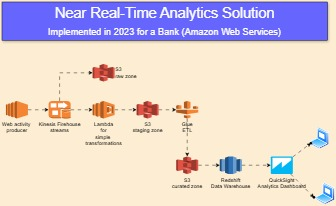
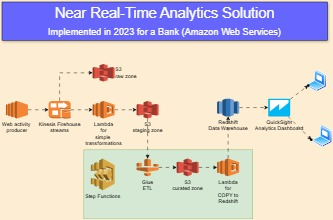
updated image for near real time workload

diff --git a/html/Bank_NearRealTimeAnalytics.drawio.html b/html/Bank_NearRealTimeAnalytics.drawio.html
@@ -5,7 +5,7 @@
 <title>Bank_NearRealTimeAnalytics</title>
 <meta charset="utf-8"/>
 </head>
-<body><div class="mxgraph" style="max-width:100%;border:1px solid transparent;" data-mxgraph="{&quot;highlight&quot;:&quot;#0000ff&quot;,&quot;nav&quot;:true,&quot;resize&quot;:true,&quot;dark-mode&quot;:&quot;auto&quot;,&quot;toolbar&quot;:&quot;zoom layers tags lightbox&quot;,&quot;edit&quot;:&quot;_blank&quot;,&quot;xml&quot;:&quot;&lt;mxfile host=\&quot;app.diagrams.net\&quot; agent=\&quot;Mozilla/5.0 (Windows NT 10.0; Win64; x64) AppleWebKit/537.36 (KHTML, like Gecko) Chrome/134.0.0.0 Safari/537.36\&quot; version=\&quot;26.2.8\&quot;&gt;\n  &lt;diagram name=\&quot;Page-1\&quot; id=\&quot;qbJQRqN9SArV1at16m0G\&quot;&gt;\n    &lt;mxGraphModel dx=\&quot;1044\&quot; dy=\&quot;570\&quot; grid=\&quot;0\&quot; gridSize=\&quot;10\&quot; guides=\&quot;1\&quot; tooltips=\&quot;1\&quot; connect=\&quot;1\&quot; arrows=\&quot;1\&quot; fold=\&quot;1\&quot; page=\&quot;1\&quot; pageScale=\&quot;1\&quot; pageWidth=\&quot;850\&quot; pageHeight=\&quot;1100\&quot; background=\&quot;light-dark(#fdeed3, #121212)\&quot; math=\&quot;0\&quot; shadow=\&quot;0\&quot;&gt;\n      &lt;root&gt;\n        &lt;mxCell id=\&quot;0\&quot; /&gt;\n        &lt;mxCell id=\&quot;1\&quot; parent=\&quot;0\&quot; /&gt;\n        &lt;mxCell id=\&quot;rjuP4YgaECZgG8GJWJ20-10\&quot; value=\&quot;\&quot; style=\&quot;edgeStyle=orthogonalEdgeStyle;rounded=0;orthogonalLoop=1;jettySize=auto;html=1;flowAnimation=1;\&quot; parent=\&quot;1\&quot; source=\&quot;rjuP4YgaECZgG8GJWJ20-1\&quot; target=\&quot;rjuP4YgaECZgG8GJWJ20-2\&quot; edge=\&quot;1\&quot;&gt;\n          &lt;mxGeometry relative=\&quot;1\&quot; as=\&quot;geometry\&quot; /&gt;\n        &lt;/mxCell&gt;\n        &lt;mxCell id=\&quot;rjuP4YgaECZgG8GJWJ20-1\&quot; value=\&quot;Web activity&amp;amp;nbsp;&amp;lt;div&amp;gt;producer&amp;lt;/div&amp;gt;\&quot; style=\&quot;outlineConnect=0;dashed=0;verticalLabelPosition=bottom;verticalAlign=top;align=center;html=1;shape=mxgraph.aws3.ec2;fillColor=#F58534;gradientColor=none;\&quot; parent=\&quot;1\&quot; vertex=\&quot;1\&quot;&gt;\n          &lt;mxGeometry x=\&quot;63\&quot; y=\&quot;244\&quot; width=\&quot;50\&quot; height=\&quot;40\&quot; as=\&quot;geometry\&quot; /&gt;\n        &lt;/mxCell&gt;\n        &lt;mxCell id=\&quot;rjuP4YgaECZgG8GJWJ20-11\&quot; value=\&quot;\&quot; style=\&quot;edgeStyle=orthogonalEdgeStyle;rounded=0;orthogonalLoop=1;jettySize=auto;html=1;flowAnimation=1;\&quot; parent=\&quot;1\&quot; source=\&quot;rjuP4YgaECZgG8GJWJ20-2\&quot; target=\&quot;rjuP4YgaECZgG8GJWJ20-3\&quot; edge=\&quot;1\&quot;&gt;\n          &lt;mxGeometry relative=\&quot;1\&quot; as=\&quot;geometry\&quot; /&gt;\n        &lt;/mxCell&gt;\n        &lt;mxCell id=\&quot;rjuP4YgaECZgG8GJWJ20-2\&quot; value=\&quot;Kinesis Firehouse&amp;lt;div&amp;gt;streams&amp;lt;/div&amp;gt;\&quot; style=\&quot;outlineConnect=0;dashed=0;verticalLabelPosition=bottom;verticalAlign=top;align=center;html=1;shape=mxgraph.aws3.kinesis_firehose;fillColor=#F58534;gradientColor=none;\&quot; parent=\&quot;1\&quot; vertex=\&quot;1\&quot;&gt;\n          &lt;mxGeometry x=\&quot;160\&quot; y=\&quot;244\&quot; width=\&quot;50\&quot; height=\&quot;40\&quot; as=\&quot;geometry\&quot; /&gt;\n        &lt;/mxCell&gt;\n        &lt;mxCell id=\&quot;rjuP4YgaECZgG8GJWJ20-19\&quot; value=\&quot;\&quot; style=\&quot;edgeStyle=orthogonalEdgeStyle;rounded=0;orthogonalLoop=1;jettySize=auto;html=1;flowAnimation=1;\&quot; parent=\&quot;1\&quot; source=\&quot;rjuP4YgaECZgG8GJWJ20-3\&quot; target=\&quot;rjuP4YgaECZgG8GJWJ20-18\&quot; edge=\&quot;1\&quot;&gt;\n          &lt;mxGeometry relative=\&quot;1\&quot; as=\&quot;geometry\&quot; /&gt;\n        &lt;/mxCell&gt;\n        &lt;mxCell id=\&quot;rjuP4YgaECZgG8GJWJ20-22\&quot; value=\&quot;\&quot; style=\&quot;edgeStyle=orthogonalEdgeStyle;rounded=0;orthogonalLoop=1;jettySize=auto;html=1;exitX=0.5;exitY=0;exitDx=0;exitDy=0;exitPerimeter=0;flowAnimation=1;\&quot; parent=\&quot;1\&quot; source=\&quot;rjuP4YgaECZgG8GJWJ20-2\&quot; target=\&quot;rjuP4YgaECZgG8GJWJ20-4\&quot; edge=\&quot;1\&quot;&gt;\n          &lt;mxGeometry relative=\&quot;1\&quot; as=\&quot;geometry\&quot;&gt;\n            &lt;Array as=\&quot;points\&quot;&gt;\n              &lt;mxPoint x=\&quot;185\&quot; y=\&quot;180\&quot; /&gt;\n            &lt;/Array&gt;\n          &lt;/mxGeometry&gt;\n        &lt;/mxCell&gt;\n        &lt;mxCell id=\&quot;rjuP4YgaECZgG8GJWJ20-3\&quot; value=\&quot;Lambda&amp;lt;div&amp;gt;for&amp;lt;/div&amp;gt;&amp;lt;div&amp;gt;simple&amp;amp;nbsp;&amp;lt;/div&amp;gt;&amp;lt;div&amp;gt;transformations&amp;lt;/div&amp;gt;\&quot; style=\&quot;outlineConnect=0;dashed=0;verticalLabelPosition=bottom;verticalAlign=top;align=center;html=1;shape=mxgraph.aws3.lambda;fillColor=#F58534;gradientColor=none;\&quot; parent=\&quot;1\&quot; vertex=\&quot;1\&quot;&gt;\n          &lt;mxGeometry x=\&quot;260\&quot; y=\&quot;244\&quot; width=\&quot;50\&quot; height=\&quot;40\&quot; as=\&quot;geometry\&quot; /&gt;\n        &lt;/mxCell&gt;\n        &lt;mxCell id=\&quot;rjuP4YgaECZgG8GJWJ20-4\&quot; value=\&quot;S3&amp;lt;div&amp;gt;raw zone&amp;lt;/div&amp;gt;\&quot; style=\&quot;outlineConnect=0;dashed=0;verticalLabelPosition=middle;verticalAlign=middle;align=left;html=1;shape=mxgraph.aws3.s3;fillColor=#E05243;gradientColor=none;labelPosition=right;\&quot; parent=\&quot;1\&quot; vertex=\&quot;1\&quot;&gt;\n          &lt;mxGeometry x=\&quot;260\&quot; y=\&quot;160\&quot; width=\&quot;50\&quot; height=\&quot;40\&quot; as=\&quot;geometry\&quot; /&gt;\n        &lt;/mxCell&gt;\n        &lt;mxCell id=\&quot;rjuP4YgaECZgG8GJWJ20-14\&quot; value=\&quot;\&quot; style=\&quot;edgeStyle=orthogonalEdgeStyle;rounded=0;orthogonalLoop=1;jettySize=auto;html=1;flowAnimation=1;\&quot; parent=\&quot;1\&quot; source=\&quot;rjuP4YgaECZgG8GJWJ20-5\&quot; target=\&quot;rjuP4YgaECZgG8GJWJ20-6\&quot; edge=\&quot;1\&quot;&gt;\n          &lt;mxGeometry relative=\&quot;1\&quot; as=\&quot;geometry\&quot; /&gt;\n        &lt;/mxCell&gt;\n        &lt;mxCell id=\&quot;rjuP4YgaECZgG8GJWJ20-5\&quot; value=\&quot;Glue&amp;lt;div&amp;gt;ETL&amp;lt;/div&amp;gt;\&quot; style=\&quot;outlineConnect=0;dashed=0;verticalLabelPosition=bottom;verticalAlign=top;align=center;html=1;shape=mxgraph.aws3.glue;fillColor=#F58534;gradientColor=none;\&quot; parent=\&quot;1\&quot; vertex=\&quot;1\&quot;&gt;\n          &lt;mxGeometry x=\&quot;450\&quot; y=\&quot;244\&quot; width=\&quot;50\&quot; height=\&quot;40\&quot; as=\&quot;geometry\&quot; /&gt;\n        &lt;/mxCell&gt;\n        &lt;mxCell id=\&quot;rjuP4YgaECZgG8GJWJ20-15\&quot; value=\&quot;\&quot; style=\&quot;edgeStyle=orthogonalEdgeStyle;rounded=0;orthogonalLoop=1;jettySize=auto;html=1;flowAnimation=1;\&quot; parent=\&quot;1\&quot; source=\&quot;rjuP4YgaECZgG8GJWJ20-6\&quot; target=\&quot;rjuP4YgaECZgG8GJWJ20-8\&quot; edge=\&quot;1\&quot;&gt;\n          &lt;mxGeometry relative=\&quot;1\&quot; as=\&quot;geometry\&quot; /&gt;\n        &lt;/mxCell&gt;\n        &lt;mxCell id=\&quot;rjuP4YgaECZgG8GJWJ20-6\&quot; value=\&quot;S3&amp;lt;div&amp;gt;curated zone&amp;lt;/div&amp;gt;\&quot; style=\&quot;outlineConnect=0;dashed=0;verticalLabelPosition=bottom;verticalAlign=top;align=center;html=1;shape=mxgraph.aws3.s3;fillColor=#E05243;gradientColor=none;\&quot; parent=\&quot;1\&quot; vertex=\&quot;1\&quot;&gt;\n          &lt;mxGeometry x=\&quot;450\&quot; y=\&quot;370\&quot; width=\&quot;50\&quot; height=\&quot;40\&quot; as=\&quot;geometry\&quot; /&gt;\n        &lt;/mxCell&gt;\n        &lt;mxCell id=\&quot;rjuP4YgaECZgG8GJWJ20-16\&quot; value=\&quot;\&quot; style=\&quot;edgeStyle=orthogonalEdgeStyle;rounded=0;orthogonalLoop=1;jettySize=auto;html=1;flowAnimation=1;\&quot; parent=\&quot;1\&quot; source=\&quot;rjuP4YgaECZgG8GJWJ20-8\&quot; target=\&quot;rjuP4YgaECZgG8GJWJ20-9\&quot; edge=\&quot;1\&quot;&gt;\n          &lt;mxGeometry relative=\&quot;1\&quot; as=\&quot;geometry\&quot; /&gt;\n        &lt;/mxCell&gt;\n        &lt;mxCell id=\&quot;rjuP4YgaECZgG8GJWJ20-8\&quot; value=\&quot;Redshift&amp;lt;div&amp;gt;Data Warehouse&amp;lt;/div&amp;gt;\&quot; style=\&quot;outlineConnect=0;dashed=0;verticalLabelPosition=bottom;verticalAlign=top;align=center;html=1;shape=mxgraph.aws3.redshift;fillColor=#2E73B8;gradientColor=none;\&quot; parent=\&quot;1\&quot; vertex=\&quot;1\&quot;&gt;\n          &lt;mxGeometry x=\&quot;549\&quot; y=\&quot;370\&quot; width=\&quot;50\&quot; height=\&quot;40\&quot; as=\&quot;geometry\&quot; /&gt;\n        &lt;/mxCell&gt;\n        &lt;mxCell id=\&quot;pMGObLHeUxoCBtOjpMsv-4\&quot; value=\&quot;\&quot; style=\&quot;rounded=0;orthogonalLoop=1;jettySize=auto;html=1;flowAnimation=1;\&quot; edge=\&quot;1\&quot; parent=\&quot;1\&quot; source=\&quot;rjuP4YgaECZgG8GJWJ20-9\&quot; target=\&quot;pMGObLHeUxoCBtOjpMsv-3\&quot;&gt;\n          &lt;mxGeometry relative=\&quot;1\&quot; as=\&quot;geometry\&quot; /&gt;\n        &lt;/mxCell&gt;\n        &lt;mxCell id=\&quot;pMGObLHeUxoCBtOjpMsv-6\&quot; value=\&quot;\&quot; style=\&quot;rounded=0;orthogonalLoop=1;jettySize=auto;html=1;flowAnimation=1;\&quot; edge=\&quot;1\&quot; parent=\&quot;1\&quot; source=\&quot;rjuP4YgaECZgG8GJWJ20-9\&quot; target=\&quot;pMGObLHeUxoCBtOjpMsv-5\&quot;&gt;\n          &lt;mxGeometry relative=\&quot;1\&quot; as=\&quot;geometry\&quot; /&gt;\n        &lt;/mxCell&gt;\n        &lt;mxCell id=\&quot;rjuP4YgaECZgG8GJWJ20-9\&quot; value=\&quot;QuickSight&amp;lt;div&amp;gt;Analytics Dashboard&amp;lt;/div&amp;gt;\&quot; style=\&quot;outlineConnect=0;dashed=0;verticalLabelPosition=bottom;verticalAlign=top;align=center;html=1;shape=mxgraph.aws3.quicksight;fillColor=#00B7F4;gradientColor=none;\&quot; parent=\&quot;1\&quot; vertex=\&quot;1\&quot;&gt;\n          &lt;mxGeometry x=\&quot;665\&quot; y=\&quot;370\&quot; width=\&quot;50\&quot; height=\&quot;40\&quot; as=\&quot;geometry\&quot; /&gt;\n        &lt;/mxCell&gt;\n        &lt;mxCell id=\&quot;rjuP4YgaECZgG8GJWJ20-17\&quot; value=\&quot;&amp;lt;div&amp;gt;&amp;lt;font style=&amp;quot;&amp;quot;&amp;gt;Near Real-Time Analytics Solution&amp;lt;/font&amp;gt;&amp;lt;/div&amp;gt;&amp;lt;div&amp;gt;&amp;lt;font style=&amp;quot;font-size: 21px;&amp;quot;&amp;gt;Implemented in 2023 for a Bank (Amazon Web Services)&amp;lt;/font&amp;gt;&amp;lt;/div&amp;gt;\&quot; style=\&quot;rounded=0;whiteSpace=wrap;html=1;strokeWidth=1;fontSize=33;labelBackgroundColor=#6666FF;fillColor=#6666FF;fontColor=#FFFFFF;textShadow=0;shadow=1;labelBorderColor=none;\&quot; parent=\&quot;1\&quot; vertex=\&quot;1\&quot;&gt;\n          &lt;mxGeometry x=\&quot;54\&quot; y=\&quot;19\&quot; width=\&quot;740\&quot; height=\&quot;87\&quot; as=\&quot;geometry\&quot; /&gt;\n        &lt;/mxCell&gt;\n        &lt;mxCell id=\&quot;rjuP4YgaECZgG8GJWJ20-20\&quot; value=\&quot;\&quot; style=\&quot;edgeStyle=orthogonalEdgeStyle;rounded=0;orthogonalLoop=1;jettySize=auto;html=1;flowAnimation=1;\&quot; parent=\&quot;1\&quot; source=\&quot;rjuP4YgaECZgG8GJWJ20-18\&quot; target=\&quot;rjuP4YgaECZgG8GJWJ20-5\&quot; edge=\&quot;1\&quot;&gt;\n          &lt;mxGeometry relative=\&quot;1\&quot; as=\&quot;geometry\&quot; /&gt;\n        &lt;/mxCell&gt;\n        &lt;mxCell id=\&quot;rjuP4YgaECZgG8GJWJ20-18\&quot; value=\&quot;S3&amp;lt;div&amp;gt;staging zone&amp;lt;/div&amp;gt;\&quot; style=\&quot;outlineConnect=0;dashed=0;verticalLabelPosition=bottom;verticalAlign=top;align=center;html=1;shape=mxgraph.aws3.s3;fillColor=#E05243;gradientColor=none;\&quot; parent=\&quot;1\&quot; vertex=\&quot;1\&quot;&gt;\n          &lt;mxGeometry x=\&quot;360\&quot; y=\&quot;244\&quot; width=\&quot;50\&quot; height=\&quot;40\&quot; as=\&quot;geometry\&quot; /&gt;\n        &lt;/mxCell&gt;\n        &lt;mxCell id=\&quot;pMGObLHeUxoCBtOjpMsv-1\&quot; value=\&quot;\&quot; style=\&quot;image;aspect=fixed;perimeter=ellipsePerimeter;html=1;align=center;shadow=0;dashed=0;spacingTop=3;image=img/lib/active_directory/laptop_client.svg;\&quot; vertex=\&quot;1\&quot; parent=\&quot;1\&quot;&gt;\n          &lt;mxGeometry x=\&quot;766\&quot; y=\&quot;430\&quot; width=\&quot;45\&quot; height=\&quot;50\&quot; as=\&quot;geometry\&quot; /&gt;\n        &lt;/mxCell&gt;\n        &lt;mxCell id=\&quot;pMGObLHeUxoCBtOjpMsv-2\&quot; value=\&quot;\&quot; style=\&quot;image;aspect=fixed;perimeter=ellipsePerimeter;html=1;align=center;shadow=0;dashed=0;spacingTop=3;image=img/lib/active_directory/laptop_client.svg;\&quot; vertex=\&quot;1\&quot; parent=\&quot;1\&quot;&gt;\n          &lt;mxGeometry x=\&quot;753\&quot; y=\&quot;304\&quot; width=\&quot;45\&quot; height=\&quot;50\&quot; as=\&quot;geometry\&quot; /&gt;\n        &lt;/mxCell&gt;\n        &lt;mxCell id=\&quot;pMGObLHeUxoCBtOjpMsv-3\&quot; value=\&quot;\&quot; style=\&quot;shape=waypoint;sketch=0;size=6;pointerEvents=1;points=[];fillColor=#00B7F4;resizable=0;rotatable=0;perimeter=centerPerimeter;snapToPoint=1;verticalAlign=top;dashed=0;gradientColor=none;\&quot; vertex=\&quot;1\&quot; parent=\&quot;1\&quot;&gt;\n          &lt;mxGeometry x=\&quot;746\&quot; y=\&quot;330\&quot; width=\&quot;20\&quot; height=\&quot;20\&quot; as=\&quot;geometry\&quot; /&gt;\n        &lt;/mxCell&gt;\n        &lt;mxCell id=\&quot;pMGObLHeUxoCBtOjpMsv-5\&quot; value=\&quot;\&quot; style=\&quot;shape=waypoint;sketch=0;size=6;pointerEvents=1;points=[];fillColor=#00B7F4;resizable=0;rotatable=0;perimeter=centerPerimeter;snapToPoint=1;verticalAlign=top;dashed=0;gradientColor=none;\&quot; vertex=\&quot;1\&quot; parent=\&quot;1\&quot;&gt;\n          &lt;mxGeometry x=\&quot;753\&quot; y=\&quot;453\&quot; width=\&quot;20\&quot; height=\&quot;20\&quot; as=\&quot;geometry\&quot; /&gt;\n        &lt;/mxCell&gt;\n      &lt;/root&gt;\n    &lt;/mxGraphModel&gt;\n  &lt;/diagram&gt;\n&lt;/mxfile&gt;\n&quot;}"></div>
+<body><div class="mxgraph" style="max-width:100%;border:1px solid transparent;" data-mxgraph="{&quot;highlight&quot;:&quot;#0000ff&quot;,&quot;nav&quot;:true,&quot;resize&quot;:true,&quot;dark-mode&quot;:&quot;auto&quot;,&quot;toolbar&quot;:&quot;zoom layers tags lightbox&quot;,&quot;edit&quot;:&quot;_blank&quot;,&quot;xml&quot;:&quot;&lt;mxfile host=\&quot;app.diagrams.net\&quot; agent=\&quot;Mozilla/5.0 (Windows NT 10.0; Win64; x64) AppleWebKit/537.36 (KHTML, like Gecko) Chrome/134.0.0.0 Safari/537.36\&quot; version=\&quot;26.2.8\&quot;&gt;\n  &lt;diagram name=\&quot;Page-1\&quot; id=\&quot;qbJQRqN9SArV1at16m0G\&quot;&gt;\n    &lt;mxGraphModel dx=\&quot;1044\&quot; dy=\&quot;570\&quot; grid=\&quot;0\&quot; gridSize=\&quot;10\&quot; guides=\&quot;1\&quot; tooltips=\&quot;1\&quot; connect=\&quot;1\&quot; arrows=\&quot;1\&quot; fold=\&quot;1\&quot; page=\&quot;1\&quot; pageScale=\&quot;1\&quot; pageWidth=\&quot;850\&quot; pageHeight=\&quot;1100\&quot; background=\&quot;light-dark(#fdeed3, #121212)\&quot; math=\&quot;0\&quot; shadow=\&quot;0\&quot;&gt;\n      &lt;root&gt;\n        &lt;mxCell id=\&quot;0\&quot; /&gt;\n        &lt;mxCell id=\&quot;1\&quot; parent=\&quot;0\&quot; /&gt;\n        &lt;mxCell id=\&quot;lFARMCmlUhEIKPKjbdOt-5\&quot; value=\&quot;\&quot; style=\&quot;rounded=0;whiteSpace=wrap;html=1;fillColor=#d5e8d4;strokeColor=#82b366;\&quot; vertex=\&quot;1\&quot; parent=\&quot;1\&quot;&gt;\n          &lt;mxGeometry x=\&quot;240\&quot; y=\&quot;355\&quot; width=\&quot;384\&quot; height=\&quot;157\&quot; as=\&quot;geometry\&quot; /&gt;\n        &lt;/mxCell&gt;\n        &lt;mxCell id=\&quot;rjuP4YgaECZgG8GJWJ20-10\&quot; value=\&quot;\&quot; style=\&quot;edgeStyle=orthogonalEdgeStyle;rounded=0;orthogonalLoop=1;jettySize=auto;html=1;flowAnimation=1;\&quot; parent=\&quot;1\&quot; source=\&quot;rjuP4YgaECZgG8GJWJ20-1\&quot; target=\&quot;rjuP4YgaECZgG8GJWJ20-2\&quot; edge=\&quot;1\&quot;&gt;\n          &lt;mxGeometry relative=\&quot;1\&quot; as=\&quot;geometry\&quot; /&gt;\n        &lt;/mxCell&gt;\n        &lt;mxCell id=\&quot;rjuP4YgaECZgG8GJWJ20-1\&quot; value=\&quot;Web activity&amp;amp;nbsp;&amp;lt;div&amp;gt;producer&amp;lt;/div&amp;gt;\&quot; style=\&quot;outlineConnect=0;dashed=0;verticalLabelPosition=bottom;verticalAlign=top;align=center;html=1;shape=mxgraph.aws3.ec2;fillColor=#F58534;gradientColor=none;\&quot; parent=\&quot;1\&quot; vertex=\&quot;1\&quot;&gt;\n          &lt;mxGeometry x=\&quot;63\&quot; y=\&quot;244\&quot; width=\&quot;50\&quot; height=\&quot;40\&quot; as=\&quot;geometry\&quot; /&gt;\n        &lt;/mxCell&gt;\n        &lt;mxCell id=\&quot;rjuP4YgaECZgG8GJWJ20-11\&quot; value=\&quot;\&quot; style=\&quot;edgeStyle=orthogonalEdgeStyle;rounded=0;orthogonalLoop=1;jettySize=auto;html=1;flowAnimation=1;\&quot; parent=\&quot;1\&quot; source=\&quot;rjuP4YgaECZgG8GJWJ20-2\&quot; target=\&quot;rjuP4YgaECZgG8GJWJ20-3\&quot; edge=\&quot;1\&quot;&gt;\n          &lt;mxGeometry relative=\&quot;1\&quot; as=\&quot;geometry\&quot; /&gt;\n        &lt;/mxCell&gt;\n        &lt;mxCell id=\&quot;rjuP4YgaECZgG8GJWJ20-2\&quot; value=\&quot;Kinesis Firehouse&amp;lt;div&amp;gt;streams&amp;lt;/div&amp;gt;\&quot; style=\&quot;outlineConnect=0;dashed=0;verticalLabelPosition=bottom;verticalAlign=top;align=center;html=1;shape=mxgraph.aws3.kinesis_firehose;fillColor=#F58534;gradientColor=none;\&quot; parent=\&quot;1\&quot; vertex=\&quot;1\&quot;&gt;\n          &lt;mxGeometry x=\&quot;160\&quot; y=\&quot;244\&quot; width=\&quot;50\&quot; height=\&quot;40\&quot; as=\&quot;geometry\&quot; /&gt;\n        &lt;/mxCell&gt;\n        &lt;mxCell id=\&quot;rjuP4YgaECZgG8GJWJ20-19\&quot; value=\&quot;\&quot; style=\&quot;edgeStyle=orthogonalEdgeStyle;rounded=0;orthogonalLoop=1;jettySize=auto;html=1;flowAnimation=1;\&quot; parent=\&quot;1\&quot; source=\&quot;rjuP4YgaECZgG8GJWJ20-3\&quot; target=\&quot;rjuP4YgaECZgG8GJWJ20-18\&quot; edge=\&quot;1\&quot;&gt;\n          &lt;mxGeometry relative=\&quot;1\&quot; as=\&quot;geometry\&quot; /&gt;\n        &lt;/mxCell&gt;\n        &lt;mxCell id=\&quot;rjuP4YgaECZgG8GJWJ20-22\&quot; value=\&quot;\&quot; style=\&quot;edgeStyle=orthogonalEdgeStyle;rounded=0;orthogonalLoop=1;jettySize=auto;html=1;exitX=0.5;exitY=0;exitDx=0;exitDy=0;exitPerimeter=0;flowAnimation=1;\&quot; parent=\&quot;1\&quot; source=\&quot;rjuP4YgaECZgG8GJWJ20-2\&quot; target=\&quot;rjuP4YgaECZgG8GJWJ20-4\&quot; edge=\&quot;1\&quot;&gt;\n          &lt;mxGeometry relative=\&quot;1\&quot; as=\&quot;geometry\&quot;&gt;\n            &lt;Array as=\&quot;points\&quot;&gt;\n              &lt;mxPoint x=\&quot;185\&quot; y=\&quot;180\&quot; /&gt;\n            &lt;/Array&gt;\n          &lt;/mxGeometry&gt;\n        &lt;/mxCell&gt;\n        &lt;mxCell id=\&quot;rjuP4YgaECZgG8GJWJ20-3\&quot; value=\&quot;Lambda&amp;lt;div&amp;gt;for&amp;lt;/div&amp;gt;&amp;lt;div&amp;gt;simple&amp;amp;nbsp;&amp;lt;/div&amp;gt;&amp;lt;div&amp;gt;transformations&amp;lt;/div&amp;gt;\&quot; style=\&quot;outlineConnect=0;dashed=0;verticalLabelPosition=bottom;verticalAlign=top;align=center;html=1;shape=mxgraph.aws3.lambda;fillColor=#F58534;gradientColor=none;\&quot; parent=\&quot;1\&quot; vertex=\&quot;1\&quot;&gt;\n          &lt;mxGeometry x=\&quot;260\&quot; y=\&quot;244\&quot; width=\&quot;50\&quot; height=\&quot;40\&quot; as=\&quot;geometry\&quot; /&gt;\n        &lt;/mxCell&gt;\n        &lt;mxCell id=\&quot;rjuP4YgaECZgG8GJWJ20-4\&quot; value=\&quot;S3&amp;lt;div&amp;gt;raw zone&amp;lt;/div&amp;gt;\&quot; style=\&quot;outlineConnect=0;dashed=0;verticalLabelPosition=middle;verticalAlign=middle;align=left;html=1;shape=mxgraph.aws3.s3;fillColor=#E05243;gradientColor=none;labelPosition=right;\&quot; parent=\&quot;1\&quot; vertex=\&quot;1\&quot;&gt;\n          &lt;mxGeometry x=\&quot;260\&quot; y=\&quot;160\&quot; width=\&quot;50\&quot; height=\&quot;40\&quot; as=\&quot;geometry\&quot; /&gt;\n        &lt;/mxCell&gt;\n        &lt;mxCell id=\&quot;rjuP4YgaECZgG8GJWJ20-14\&quot; value=\&quot;\&quot; style=\&quot;edgeStyle=orthogonalEdgeStyle;rounded=0;orthogonalLoop=1;jettySize=auto;html=1;flowAnimation=1;\&quot; parent=\&quot;1\&quot; source=\&quot;rjuP4YgaECZgG8GJWJ20-5\&quot; target=\&quot;rjuP4YgaECZgG8GJWJ20-6\&quot; edge=\&quot;1\&quot;&gt;\n          &lt;mxGeometry relative=\&quot;1\&quot; as=\&quot;geometry\&quot; /&gt;\n        &lt;/mxCell&gt;\n        &lt;mxCell id=\&quot;rjuP4YgaECZgG8GJWJ20-5\&quot; value=\&quot;Glue&amp;lt;div&amp;gt;ETL&amp;lt;/div&amp;gt;\&quot; style=\&quot;outlineConnect=0;dashed=0;verticalLabelPosition=bottom;verticalAlign=top;align=center;html=1;shape=mxgraph.aws3.glue;fillColor=#F58534;gradientColor=none;\&quot; parent=\&quot;1\&quot; vertex=\&quot;1\&quot;&gt;\n          &lt;mxGeometry x=\&quot;360\&quot; y=\&quot;375\&quot; width=\&quot;50\&quot; height=\&quot;40\&quot; as=\&quot;geometry\&quot; /&gt;\n        &lt;/mxCell&gt;\n        &lt;mxCell id=\&quot;lFARMCmlUhEIKPKjbdOt-2\&quot; value=\&quot;\&quot; style=\&quot;edgeStyle=orthogonalEdgeStyle;rounded=0;orthogonalLoop=1;jettySize=auto;html=1;flowAnimation=1;\&quot; edge=\&quot;1\&quot; parent=\&quot;1\&quot; source=\&quot;rjuP4YgaECZgG8GJWJ20-6\&quot; target=\&quot;lFARMCmlUhEIKPKjbdOt-1\&quot;&gt;\n          &lt;mxGeometry relative=\&quot;1\&quot; as=\&quot;geometry\&quot; /&gt;\n        &lt;/mxCell&gt;\n        &lt;mxCell id=\&quot;rjuP4YgaECZgG8GJWJ20-6\&quot; value=\&quot;S3&amp;lt;div&amp;gt;curated zone&amp;lt;/div&amp;gt;\&quot; style=\&quot;outlineConnect=0;dashed=0;verticalLabelPosition=bottom;verticalAlign=top;align=center;html=1;shape=mxgraph.aws3.s3;fillColor=#E05243;gradientColor=none;\&quot; parent=\&quot;1\&quot; vertex=\&quot;1\&quot;&gt;\n          &lt;mxGeometry x=\&quot;451\&quot; y=\&quot;375\&quot; width=\&quot;50\&quot; height=\&quot;40\&quot; as=\&quot;geometry\&quot; /&gt;\n        &lt;/mxCell&gt;\n        &lt;mxCell id=\&quot;rjuP4YgaECZgG8GJWJ20-16\&quot; value=\&quot;\&quot; style=\&quot;edgeStyle=orthogonalEdgeStyle;rounded=0;orthogonalLoop=1;jettySize=auto;html=1;flowAnimation=1;\&quot; parent=\&quot;1\&quot; source=\&quot;rjuP4YgaECZgG8GJWJ20-8\&quot; target=\&quot;rjuP4YgaECZgG8GJWJ20-9\&quot; edge=\&quot;1\&quot;&gt;\n          &lt;mxGeometry relative=\&quot;1\&quot; as=\&quot;geometry\&quot; /&gt;\n        &lt;/mxCell&gt;\n        &lt;mxCell id=\&quot;rjuP4YgaECZgG8GJWJ20-8\&quot; value=\&quot;Redshift&amp;lt;div&amp;gt;Data Warehouse&amp;lt;/div&amp;gt;\&quot; style=\&quot;outlineConnect=0;dashed=0;verticalLabelPosition=bottom;verticalAlign=top;align=center;html=1;shape=mxgraph.aws3.redshift;fillColor=#2E73B8;gradientColor=none;\&quot; parent=\&quot;1\&quot; vertex=\&quot;1\&quot;&gt;\n          &lt;mxGeometry x=\&quot;543\&quot; y=\&quot;239\&quot; width=\&quot;50\&quot; height=\&quot;40\&quot; as=\&quot;geometry\&quot; /&gt;\n        &lt;/mxCell&gt;\n        &lt;mxCell id=\&quot;pMGObLHeUxoCBtOjpMsv-4\&quot; value=\&quot;\&quot; style=\&quot;rounded=0;orthogonalLoop=1;jettySize=auto;html=1;flowAnimation=1;\&quot; parent=\&quot;1\&quot; source=\&quot;rjuP4YgaECZgG8GJWJ20-9\&quot; target=\&quot;pMGObLHeUxoCBtOjpMsv-3\&quot; edge=\&quot;1\&quot;&gt;\n          &lt;mxGeometry relative=\&quot;1\&quot; as=\&quot;geometry\&quot; /&gt;\n        &lt;/mxCell&gt;\n        &lt;mxCell id=\&quot;pMGObLHeUxoCBtOjpMsv-6\&quot; value=\&quot;\&quot; style=\&quot;rounded=0;orthogonalLoop=1;jettySize=auto;html=1;flowAnimation=1;\&quot; parent=\&quot;1\&quot; source=\&quot;rjuP4YgaECZgG8GJWJ20-9\&quot; target=\&quot;pMGObLHeUxoCBtOjpMsv-5\&quot; edge=\&quot;1\&quot;&gt;\n          &lt;mxGeometry relative=\&quot;1\&quot; as=\&quot;geometry\&quot; /&gt;\n        &lt;/mxCell&gt;\n        &lt;mxCell id=\&quot;rjuP4YgaECZgG8GJWJ20-9\&quot; value=\&quot;QuickSight&amp;lt;div&amp;gt;Analytics Dashboard&amp;lt;/div&amp;gt;\&quot; style=\&quot;outlineConnect=0;dashed=0;verticalLabelPosition=bottom;verticalAlign=top;align=center;html=1;shape=mxgraph.aws3.quicksight;fillColor=#00B7F4;gradientColor=none;\&quot; parent=\&quot;1\&quot; vertex=\&quot;1\&quot;&gt;\n          &lt;mxGeometry x=\&quot;659\&quot; y=\&quot;239\&quot; width=\&quot;50\&quot; height=\&quot;40\&quot; as=\&quot;geometry\&quot; /&gt;\n        &lt;/mxCell&gt;\n        &lt;mxCell id=\&quot;rjuP4YgaECZgG8GJWJ20-17\&quot; value=\&quot;&amp;lt;div&amp;gt;&amp;lt;font style=&amp;quot;&amp;quot;&amp;gt;Near Real-Time Analytics Solution&amp;lt;/font&amp;gt;&amp;lt;/div&amp;gt;&amp;lt;div&amp;gt;&amp;lt;font style=&amp;quot;font-size: 21px;&amp;quot;&amp;gt;Implemented in 2023 for a Bank (Amazon Web Services)&amp;lt;/font&amp;gt;&amp;lt;/div&amp;gt;\&quot; style=\&quot;rounded=0;whiteSpace=wrap;html=1;strokeWidth=1;fontSize=33;labelBackgroundColor=#6666FF;fillColor=#6666FF;fontColor=#FFFFFF;textShadow=0;shadow=1;labelBorderColor=none;\&quot; parent=\&quot;1\&quot; vertex=\&quot;1\&quot;&gt;\n          &lt;mxGeometry x=\&quot;54\&quot; y=\&quot;19\&quot; width=\&quot;740\&quot; height=\&quot;87\&quot; as=\&quot;geometry\&quot; /&gt;\n        &lt;/mxCell&gt;\n        &lt;mxCell id=\&quot;rjuP4YgaECZgG8GJWJ20-20\&quot; value=\&quot;\&quot; style=\&quot;edgeStyle=orthogonalEdgeStyle;rounded=0;orthogonalLoop=1;jettySize=auto;html=1;flowAnimation=1;\&quot; parent=\&quot;1\&quot; source=\&quot;rjuP4YgaECZgG8GJWJ20-18\&quot; target=\&quot;rjuP4YgaECZgG8GJWJ20-5\&quot; edge=\&quot;1\&quot;&gt;\n          &lt;mxGeometry relative=\&quot;1\&quot; as=\&quot;geometry\&quot; /&gt;\n        &lt;/mxCell&gt;\n        &lt;mxCell id=\&quot;rjuP4YgaECZgG8GJWJ20-18\&quot; value=\&quot;S3&amp;lt;div&amp;gt;staging zone&amp;lt;/div&amp;gt;\&quot; style=\&quot;outlineConnect=0;dashed=0;verticalLabelPosition=bottom;verticalAlign=top;align=center;html=1;shape=mxgraph.aws3.s3;fillColor=#E05243;gradientColor=none;\&quot; parent=\&quot;1\&quot; vertex=\&quot;1\&quot;&gt;\n          &lt;mxGeometry x=\&quot;360\&quot; y=\&quot;244\&quot; width=\&quot;50\&quot; height=\&quot;40\&quot; as=\&quot;geometry\&quot; /&gt;\n        &lt;/mxCell&gt;\n        &lt;mxCell id=\&quot;pMGObLHeUxoCBtOjpMsv-1\&quot; value=\&quot;\&quot; style=\&quot;image;aspect=fixed;perimeter=ellipsePerimeter;html=1;align=center;shadow=0;dashed=0;spacingTop=3;image=img/lib/active_directory/laptop_client.svg;\&quot; parent=\&quot;1\&quot; vertex=\&quot;1\&quot;&gt;\n          &lt;mxGeometry x=\&quot;760\&quot; y=\&quot;299\&quot; width=\&quot;45\&quot; height=\&quot;50\&quot; as=\&quot;geometry\&quot; /&gt;\n        &lt;/mxCell&gt;\n        &lt;mxCell id=\&quot;pMGObLHeUxoCBtOjpMsv-2\&quot; value=\&quot;\&quot; style=\&quot;image;aspect=fixed;perimeter=ellipsePerimeter;html=1;align=center;shadow=0;dashed=0;spacingTop=3;image=img/lib/active_directory/laptop_client.svg;\&quot; parent=\&quot;1\&quot; vertex=\&quot;1\&quot;&gt;\n          &lt;mxGeometry x=\&quot;747\&quot; y=\&quot;173\&quot; width=\&quot;45\&quot; height=\&quot;50\&quot; as=\&quot;geometry\&quot; /&gt;\n        &lt;/mxCell&gt;\n        &lt;mxCell id=\&quot;pMGObLHeUxoCBtOjpMsv-3\&quot; value=\&quot;\&quot; style=\&quot;shape=waypoint;sketch=0;size=6;pointerEvents=1;points=[];fillColor=#00B7F4;resizable=0;rotatable=0;perimeter=centerPerimeter;snapToPoint=1;verticalAlign=top;dashed=0;gradientColor=none;\&quot; parent=\&quot;1\&quot; vertex=\&quot;1\&quot;&gt;\n          &lt;mxGeometry x=\&quot;740\&quot; y=\&quot;199\&quot; width=\&quot;20\&quot; height=\&quot;20\&quot; as=\&quot;geometry\&quot; /&gt;\n        &lt;/mxCell&gt;\n        &lt;mxCell id=\&quot;pMGObLHeUxoCBtOjpMsv-5\&quot; value=\&quot;\&quot; style=\&quot;shape=waypoint;sketch=0;size=6;pointerEvents=1;points=[];fillColor=#00B7F4;resizable=0;rotatable=0;perimeter=centerPerimeter;snapToPoint=1;verticalAlign=top;dashed=0;gradientColor=none;\&quot; parent=\&quot;1\&quot; vertex=\&quot;1\&quot;&gt;\n          &lt;mxGeometry x=\&quot;747\&quot; y=\&quot;322\&quot; width=\&quot;20\&quot; height=\&quot;20\&quot; as=\&quot;geometry\&quot; /&gt;\n        &lt;/mxCell&gt;\n        &lt;mxCell id=\&quot;lFARMCmlUhEIKPKjbdOt-3\&quot; value=\&quot;\&quot; style=\&quot;edgeStyle=orthogonalEdgeStyle;rounded=0;orthogonalLoop=1;jettySize=auto;html=1;flowAnimation=1;\&quot; edge=\&quot;1\&quot; parent=\&quot;1\&quot; source=\&quot;lFARMCmlUhEIKPKjbdOt-1\&quot; target=\&quot;rjuP4YgaECZgG8GJWJ20-8\&quot;&gt;\n          &lt;mxGeometry relative=\&quot;1\&quot; as=\&quot;geometry\&quot; /&gt;\n        &lt;/mxCell&gt;\n        &lt;mxCell id=\&quot;lFARMCmlUhEIKPKjbdOt-1\&quot; value=\&quot;Lambda&amp;lt;div&amp;gt;for&amp;lt;/div&amp;gt;&amp;lt;div&amp;gt;COPY to&amp;lt;/div&amp;gt;&amp;lt;div&amp;gt;Redshift&amp;lt;/div&amp;gt;\&quot; style=\&quot;outlineConnect=0;dashed=0;verticalLabelPosition=bottom;verticalAlign=top;align=center;html=1;shape=mxgraph.aws3.lambda;fillColor=#F58534;gradientColor=none;\&quot; vertex=\&quot;1\&quot; parent=\&quot;1\&quot;&gt;\n          &lt;mxGeometry x=\&quot;543\&quot; y=\&quot;375\&quot; width=\&quot;50\&quot; height=\&quot;40\&quot; as=\&quot;geometry\&quot; /&gt;\n        &lt;/mxCell&gt;\n        &lt;mxCell id=\&quot;lFARMCmlUhEIKPKjbdOt-4\&quot; value=\&quot;Step Functions\&quot; style=\&quot;outlineConnect=0;dashed=0;verticalLabelPosition=bottom;verticalAlign=top;align=center;html=1;shape=mxgraph.aws3.step_functions;fillColor=#D9A741;gradientColor=none;\&quot; vertex=\&quot;1\&quot; parent=\&quot;1\&quot;&gt;\n          &lt;mxGeometry x=\&quot;256\&quot; y=\&quot;375\&quot; width=\&quot;54\&quot; height=\&quot;72\&quot; as=\&quot;geometry\&quot; /&gt;\n        &lt;/mxCell&gt;\n      &lt;/root&gt;\n    &lt;/mxGraphModel&gt;\n  &lt;/diagram&gt;\n&lt;/mxfile&gt;\n&quot;}"></div>
 <script type="text/javascript" src="https://viewer.diagrams.net/js/viewer-static.min.js"></script>
 </body>
 </html>
